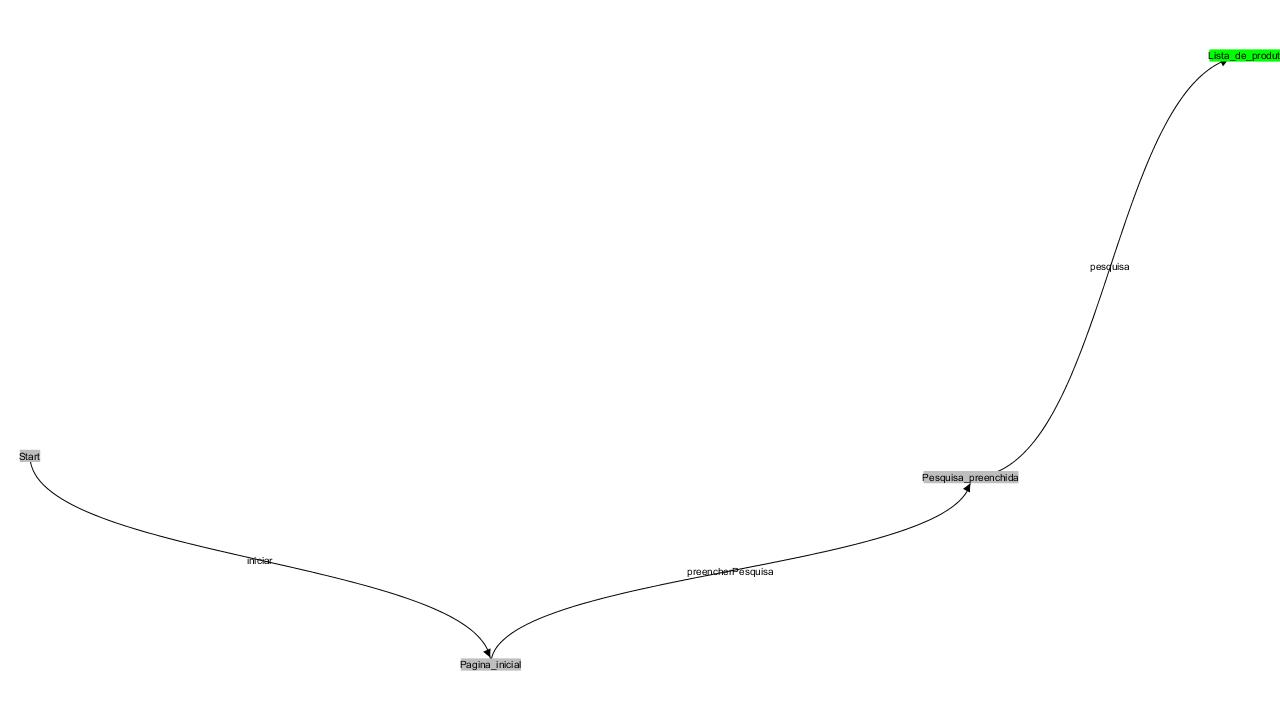
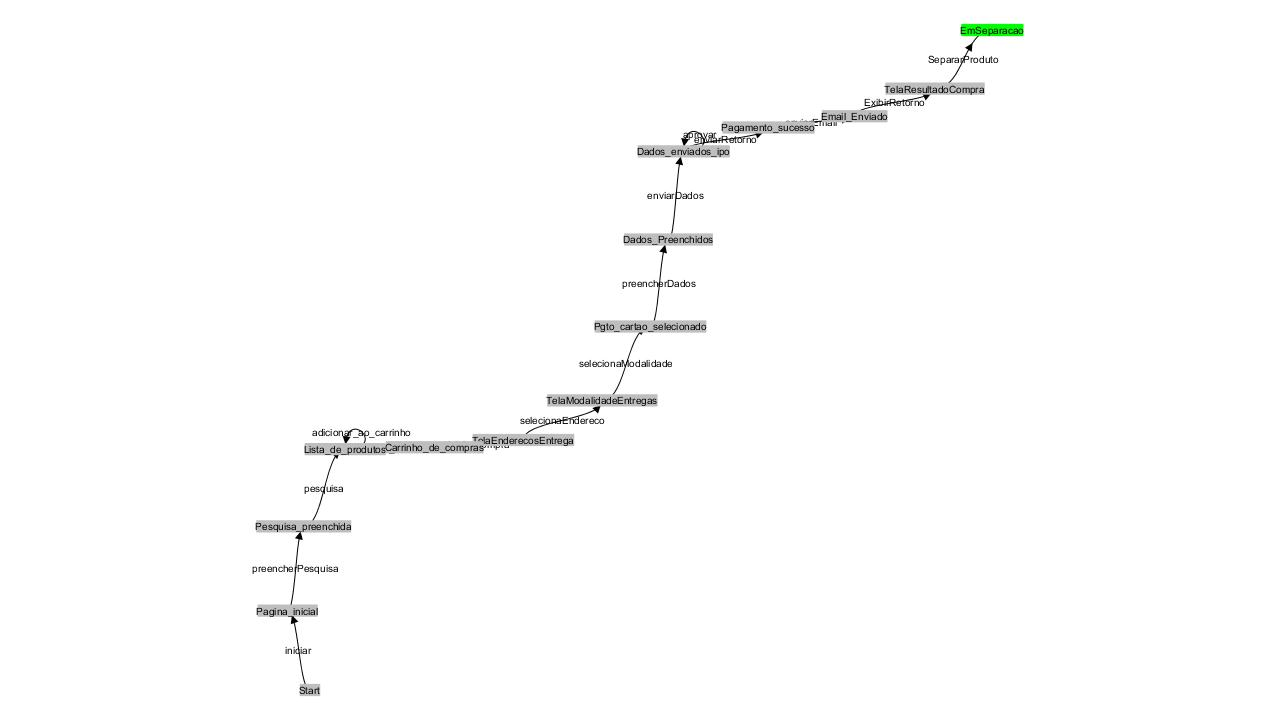
Passou nos testes

diff --git a/src/main/java/br/com/unicamp/inf321/models/bookstore/BookstoreModel.java b/src/main/java/br/com/unicamp/inf321/models/bookstore/BookstoreModel.java
@@ -21,7 +21,7 @@ import io.appium.java_client.android.AndroidDriver;
 import io.appium.java_client.android.AndroidKeyCode;
 
 @GraphWalker(value = "random(edge_coverage(100))", start = "Pagina_inicial")
-public class BookstoreModel extends org.graphwalker.core.machine.ExecutionContext implements BookStore{
+public class BookstoreModel extends org.graphwalker.core.machine.ExecutionContext implements BookStore {
 
 	private AndroidDriver<WebElement> driver;
 	private WebDriverWait wait;
@@ -29,10 +29,10 @@ public class BookstoreModel extends org.graphwalker.core.machine.ExecutionContex
 	private static final String LIST_VIEW_LOCATOR = "android.widget.ListView";
 	private static final String EDIT_TEXT_LOCATOR = "android.widget.EditText";
 	private static final String FIRST_NOTE_LOCATOR = "//android.widget.LinearLayout[1]/android.widget.FrameLayout[2]/android.widget.ListView[1]/android.widget.TextView[1]";
-	
-	public BookstoreModel(){
+
+	public BookstoreModel() {
 	}
-	
+
 	public BookstoreModel(AndroidDriver<WebElement> driver) {
 		super();
 		this.driver = driver;
@@ -40,87 +40,112 @@ public class BookstoreModel extends org.graphwalker.core.machine.ExecutionContex
 	}
 
 	@Override
-	public void iniciar() {	
-		driver.launchApp();	
+	public void iniciar() {
+		driver.launchApp();
 		wait.until(ExpectedConditions.elementToBeClickable(By.className("android.widget.Image")));
 	}
 
 	@Override
-	public void Pagina_inicial() {				
+	public void Pagina_inicial() {
+		wait.until(ExpectedConditions.elementToBeClickable(By.className("android.widget.Image")));
 	}
 
 	@Override
 	public void preencherPesquisa() {
-		TouchAction touchAction = new TouchAction(driver);
-    	touchAction.tap(342, 372).perform();
 	}
 
 	@Override
-	public void Pesquisa_preenchida() {	
-		TouchAction touchAction = new TouchAction(driver);
-		touchAction.tap(1727, 365).perform();
-	}
-
-	@Override
-	public void pesquisa() {	
-		TouchAction touchAction = new TouchAction(driver);
-    	touchAction.tap(342, 372).perform();
+	public void pesquisa() {
 	}
 
 	@Override
 	public void Popup_de_erro() {
-		TouchAction touchAction = new TouchAction(driver);
-    	touchAction.tap(342, 372).perform();
+	}
+
+	@Override
+	public void Pesquisa_preenchida() {
+		try {
+			wait.until(ExpectedConditions.elementToBeClickable(By.className("android.widget.Image")));
+			driver.tap(1, 240, 990, 100);
+			Thread.sleep(500);
+		} catch (Exception ex) {
+		}
 	}
 
 	@Override
 	public void Lista_de_produtos() {
-		TouchAction touchAction = new TouchAction(driver);
-    	touchAction.tap(238, 1033).perform();
+		try {
+			wait.until(ExpectedConditions.elementToBeClickable(By.className("android.widget.Image")));
+			driver.tap(1, 1230, 909, 100);
+			Thread.sleep(500);
+		} catch (Exception ex) {
+		}
 	}
-	
+
+	@Override
+	public void voltar() {
+	}
+
 	@Override
 	public void visualizar_carrinho() {
-		TouchAction touchAction = new TouchAction(driver);
-    	touchAction.tap(1246, 895).perform();
+	}
+
+	@Override
+	public void Carrinho_de_compras() {
+		try {
+			wait.until(ExpectedConditions.elementToBeClickable(By.className("android.widget.Image")));
+			driver.tap(1, 350, 880, 100);
+			Thread.sleep(500);
+		} catch (Exception ex) {
+		}
 	}
 
 	@Override
 	public void iniciarCompra() {
-		TouchAction touchAction = new TouchAction(driver);
-    	touchAction.tap(440, 904).perform();
-		
+
 	}
 
 	@Override
 	public void TelaEnderecosEntrega() {
-		TouchAction touchAction = new TouchAction(driver);
-    	touchAction.tap(1250, 890).perform();
-	}
-
-	@Override
-	public void selecionaEndereco() {
-        new TouchAction(driver).press(0, 1000).waitAction(2000)
-            .moveTo(0, 100).release().perform().waitAction()
-            .tap(1625, 581).perform();
-	}
-
-	@Override
-	public void TelaModalidadeEntregas() {
-		TouchAction touchAction = new TouchAction(driver);
-    	touchAction.tap(200, 750).perform();
+		try {
+			wait.until(ExpectedConditions.elementToBeClickable(By.className("android.widget.Image")));
+			new TouchAction(driver).press(981, 1060).waitAction(2000).moveTo(981, 96).release().perform().waitAction();
+			Thread.sleep(500);
+		} catch (Exception ex) {
+		}
 	}
 
 	@Override
 	public void selecionaModalidade() {
-        new TouchAction(driver).press(0, 1000).waitAction(2000)
-        .moveTo(0, 100).release().perform().waitAction()
-        .tap(257, 432).perform();
+		try {
+			wait.until(ExpectedConditions.elementToBeClickable(By.className("android.widget.Image")));
+			driver.tap(1, 1620, 545, 100);
+			Thread.sleep(500);
+		} catch (Exception ex) {
+		}
+	}
+
+	@Override
+	public void TelaLogin() {
+	}
+
+	@Override
+	public void selecionaEndereco() {
+	}
+
+	@Override
+	public void TelaModalidadeEntregas() {
 	}
 
 	@Override
 	public void Pgto_cartao_selecionado() {
-		
+		try {
+			wait.until(ExpectedConditions.elementToBeClickable(By.className("android.widget.Image")));
+			driver.tap(1, 200, 760, 100);
+			Thread.sleep(500);
+		} catch (Exception ex) {
+		}
+
 	}
 
 	@Override
@@ -129,147 +154,143 @@ public class BookstoreModel extends org.graphwalker.core.machine.ExecutionContex
 
 	@Override
 	public void Dados_Preenchidos() {
-		TouchAction touchAction = new TouchAction(driver);
-    	touchAction.tap(1517, 807).perform();
+
+		try {
+			wait.until(ExpectedConditions.elementToBeClickable(By.className("android.widget.Image")));
+			new TouchAction(driver).press(981, 1060).waitAction(2000).moveTo(981, 96).release().perform().waitAction();
+			Thread.sleep(500);
+		} catch (Exception ex) {
+		}
+	}
+
+	@Override
+	public void Dados_enviados_ipo() {
+		try {
+			wait.until(ExpectedConditions.elementToBeClickable(By.className("android.widget.Image")));
+			driver.tap(1, 270, 440, 100);
+			Thread.sleep(500);
+		} catch (Exception ex) {
+		}
+	}
+
+	@Override
+	public void Pagamento_sucesso() {
+		try {
+			wait.until(ExpectedConditions.elementToBeClickable(By.className("android.widget.Image")));
+			driver.tap(1, 1495, 790, 100);
+			Thread.sleep(500);
+		} catch (Exception ex) {
+		}
+	}
+
+	@Override
+	public void Email_Enviado() {
+		try {
+			wait.until(ExpectedConditions.elementToBeClickable(By.className("android.widget.Image")));
+			driver.tap(1, 830, 807, 100);
+			Thread.sleep(500);
+		} catch (Exception ex) {
+		}
 	}
 
 	@Override
 	public void enviarDados() {
-		TouchAction touchAction = new TouchAction(driver);
-    	touchAction.tap(900, 805).perform();
 	}
-
 
 	@Override
 	public void enviarRetorno() {
 		// TODO Auto-generated method stub
-		
+
 	}
 
 	@Override
 	public void salvar() {
 		// TODO Auto-generated method stub
-		
+
 	}
 
 	@Override
 	public void SepararProduto() {
 		// TODO Auto-generated method stub
-		
+
 	}
 
 	@Override
 	public void EmSeparacao() {
 		// TODO Auto-generated method stub
-		
+
 	}
 
 	@Override
 	public void decrementar_item() {
 		// TODO Auto-generated method stub
-		
-	}
 
-	@Override
-	public void TelaLogin() {
-		// TODO Auto-generated method stub
-		
-	}
-
-	@Override
-	public void voltar() {
-		// TODO Auto-generated method stub
-		
 	}
 
 	@Override
 	public void incrementar_item() {
 		// TODO Auto-generated method stub
-		
+
 	}
 
 	@Override
 	public void fechar() {
 		// TODO Auto-generated method stub
-		
-	}
 
-	@Override
-	public void Pagamento_sucesso() {
-		// TODO Auto-generated method stub
-		
-	}
-
-	@Override
-	public void Carrinho_de_compras() {
-		// TODO Auto-generated method stub
-		
 	}
 
 	@Override
 	public void adicionar_ao_carrinho() {
 		// TODO Auto-generated method stub
-		
+
 	}
 
 	@Override
 	public void aprovar() {
 		// TODO Auto-generated method stub
-		
-	}
 
-	@Override
-	public void Dados_enviados_ipo() {
-		// TODO Auto-generated method stub
-		
-	}
-
-	@Override
-	public void Email_Enviado() {
-		// TODO Auto-generated method stub
-		
 	}
 
 	@Override
 	public void TelaInclusaoEndereco() {
 		// TODO Auto-generated method stub
-		
+
 	}
 
 	@Override
 	public void pesquisar() {
 		// TODO Auto-generated method stub
-		
+
 	}
 
 	@Override
 	public void forcaErroEndereco() {
 		// TODO Auto-generated method stub
-		
+
 	}
 
 	@Override
 	public void incluirEndereco() {
 		// TODO Auto-generated method stub
-		
+
 	}
 
 	@Override
 	public void ExibirRetorno() {
 		// TODO Auto-generated method stub
-		
+
 	}
 
 	@Override
 	public void enviarEmail() {
 		// TODO Auto-generated method stub
-		
+
 	}
-	
+
 	@Override
 	public void TelaResultadoCompra() {
 		// TODO Auto-generated method stub
-		
+
 	}
 
 }

diff --git a/src/test/java/br/com/unicamp/inf321/BookstoreMobileTests.java b/src/test/java/br/com/unicamp/inf321/BookstoreMobileTests.java
@@ -115,6 +115,9 @@ public class BookstoreMobileTests {
 		cp.addPathGenerator(new AStarPath(new ReachedEdge("iniciar")));
 		cp.addPathGenerator(new AStarPath(new ReachedVertex("Pesquisa_preenchida")));
 		cp.addPathGenerator(new AStarPath(new ReachedVertex("Lista_de_produtos")));
+		cp.addPathGenerator(new AStarPath(new ReachedVertex("Pagamento_sucesso")));
+		cp.addPathGenerator(new AStarPath(new ReachedVertex("Email_Enviado")));
+		cp.addPathGenerator(new AStarPath(new ReachedVertex("EmSeparacao")));
 		
 		Result result = new GraphWalkerTestBuilder()
 				.addModel(MODEL_PATH,
